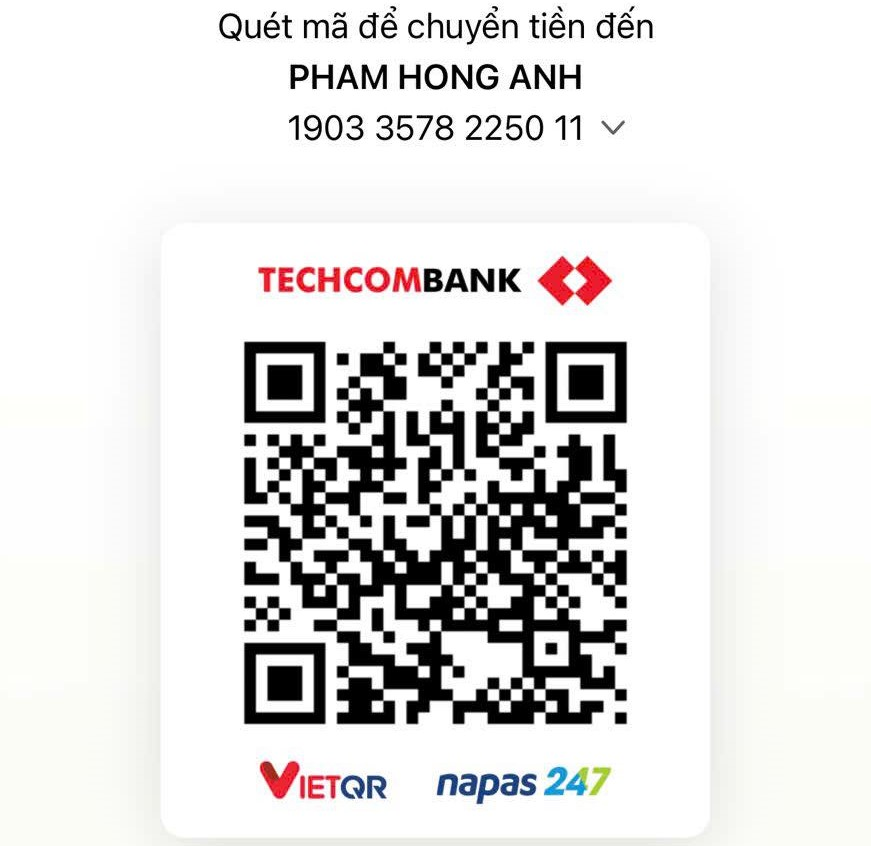
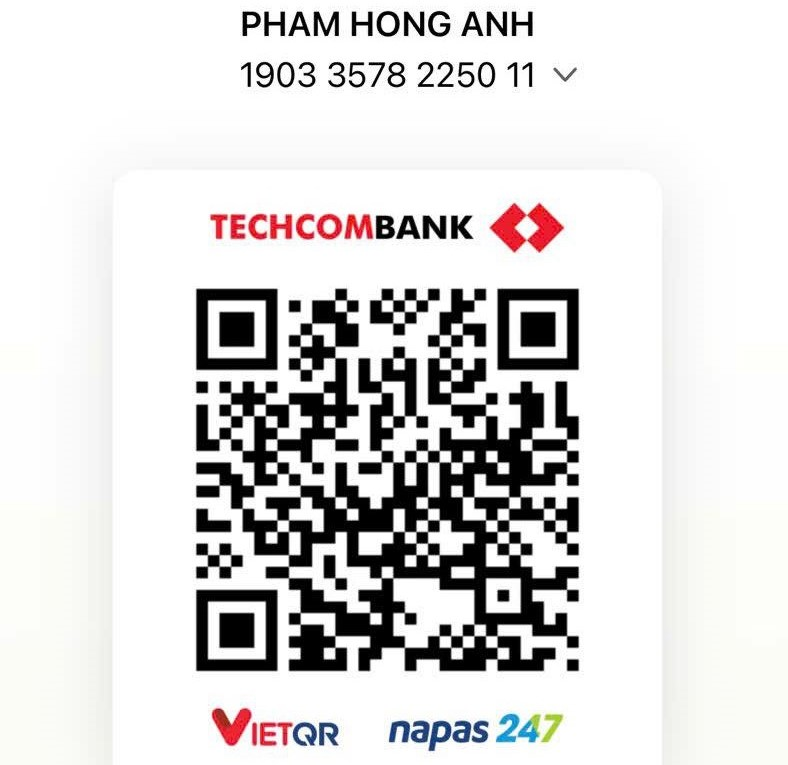
up wishes

Changed region(s): [[0.2437, 0.2706, 0.7614, 1.0], [0.2437, 0.0, 0.7614, 0.1804]]

diff --git a/index.html b/index.html
@@ -102,7 +102,7 @@
                 <h3>We’re Getting Married!</h3>
                 <h2><span>Quang Anh </span> &amp; <span>Hồng Anh</span></h2>
                 <div class="text-date">
-                    <p>SAVE THE DATE<span>19-04-2025</span></p>
+                    <p>SAVE THE DATE<span>12 & 19-04-2025</span></p>
                 </div>
             </div>
 
@@ -276,50 +276,6 @@
                     </div>
                     <div class="col-lg-6 col-md-12">
                             <div class="event-stack wow fadeIn">
-                                <h3 class="text-center">LỄ THÀNH HÔN</h3>
-                                <div class="row">
-                                	<div class="col-12 col-sm-12 col-md-5">
-                                		<div class="image-wrap">
-	                                    	<img class="event-image" src="./common/imgs/event/evenTH.jpg" alt="LỄ THÀNH HÔN">
-                                            	                                	</div>
-                                	</div>
-                                	<div class="col-12 col-sm-12 col-md-7">
-	                                	 <div class="event-title text-center-sm">
-		                                    <ul>
-		                                        <li class="text-center"><i class="fa fa-calendar-check-o"></i>2025-04-19</li>
-		                                        <li class="text-center"><i class="fa fa-clock-o"></i> 11:00</li>
-		                                    </ul>
-		                                </div>
-	                                	<p class="text-center-sm">
-                                            <i class="fa fa-map-marker"></i>
-                                                                                            <span>Tầng 2 - Khách sạn Hải Yến</span>
-                                                                                            Số 400, Trần Phú, Cẩm Trung, Cẩm Phả, Quảng Ninh
-                                        </p>
-	                                	<a class="text-center-sm"  href="https://maps.app.goo.gl/9ULMnGDuwjvFZrUM8" target="_blank" >Xem bản đồ  <i class="fa fa-caret-right"></i></a>
-	                                	<div class="calendar-button">
-		                                    <div class="atcb">
-											{
-											  "name":"LỄ THÀNH HÔN (Đám cưới Quang Anh  và Hồng Anh)",
-											  "description":"Cảm ơn bạn đã dành thời gian tham dự đám cưới của chúng tôi!. Thông tin chi tiết xem tại website:<br>[url]https://thanhxuan0604.iwedding.info[/url]",
-											  "startDate":"2025-04-19",
-											  "endDate":"2025-04-19",
-											  "startTime":"11:00",
-											  "endTime":"11:00",
-											  "location":"Số 400, Trần Phú, Cẩm Trung, Cẩm Phả, Quảng Ninh",
-											  "options":["Apple","Google","iCal","Microsoft365","MicrosoftTeams","Outlook.com","Yahoo"],
-											  "timeZone":"Asia/Ho_Chi_Minh",
-											  "iCalFileName":"Reminder-Event",
-											  "listStyle":"modal",
-											  "label":"Thêm vào lịch",
-											  "trigger":"click"
-											}
-											</div>
-										</div>
-                                	</div>
-                                	
-                                </div>
-                            </div>
-                            <div class="event-stack wow fadeIn">
                                 <h3 class="text-center">LỄ VU QUY</h3>
                                 <div class="row">
                                 	<div class="col-12 col-sm-12 col-md-5">
@@ -363,6 +319,50 @@
                                 	
                                 </div>
                             </div>
+                            <div class="event-stack wow fadeIn">
+                                <h3 class="text-center">LỄ THÀNH HÔN</h3>
+                                <div class="row">
+                                	<div class="col-12 col-sm-12 col-md-5">
+                                		<div class="image-wrap">
+	                                    	<img class="event-image" src="./common/imgs/event/evenTH.jpg" alt="LỄ THÀNH HÔN">
+                                            	                                	</div>
+                                	</div>
+                                	<div class="col-12 col-sm-12 col-md-7">
+	                                	 <div class="event-title text-center-sm">
+		                                    <ul>
+		                                        <li class="text-center"><i class="fa fa-calendar-check-o"></i>2025-04-19</li>
+		                                        <li class="text-center"><i class="fa fa-clock-o"></i> 11:00</li>
+		                                    </ul>
+		                                </div>
+	                                	<p class="text-center-sm">
+                                            <i class="fa fa-map-marker"></i>
+                                                                                            <span>Tầng 2 - Khách sạn Hải Yến</span>
+                                                                                            Số 400, Trần Phú, Cẩm Trung, Cẩm Phả, Quảng Ninh
+                                        </p>
+	                                	<a class="text-center-sm"  href="https://maps.app.goo.gl/9ULMnGDuwjvFZrUM8" target="_blank" >Xem bản đồ  <i class="fa fa-caret-right"></i></a>
+	                                	<div class="calendar-button">
+		                                    <div class="atcb">
+											{
+											  "name":"LỄ THÀNH HÔN (Đám cưới Quang Anh  và Hồng Anh)",
+											  "description":"Cảm ơn bạn đã dành thời gian tham dự đám cưới của chúng tôi!. Thông tin chi tiết xem tại website:<br>[url]https://thanhxuan0604.iwedding.info[/url]",
+											  "startDate":"2025-04-19",
+											  "endDate":"2025-04-19",
+											  "startTime":"11:00",
+											  "endTime":"11:00",
+											  "location":"Số 400, Trần Phú, Cẩm Trung, Cẩm Phả, Quảng Ninh",
+											  "options":["Apple","Google","iCal","Microsoft365","MicrosoftTeams","Outlook.com","Yahoo"],
+											  "timeZone":"Asia/Ho_Chi_Minh",
+											  "iCalFileName":"Reminder-Event",
+											  "listStyle":"modal",
+											  "label":"Thêm vào lịch",
+											  "trigger":"click"
+											}
+											</div>
+										</div>
+                                	</div>
+                                	
+                                </div>
+                            </div>
                         </div>
                 </div>
             </div>
@@ -387,7 +387,7 @@
                         <div class="quote-titles wow fadeInDown">
                             <h2>Love Quote</h2>
                         </div>
-                        <p>“ Samsa was a travelling salesman and above it there hung a picture that he had recently cut out of an illustrated magazine and housed in a nice, gilded frame. It showed a lady fitted out with and fur boa who sat upright ”</p>
+                        <p>“ Tình yêu không phải là một điểm đến, mà là một hành trình dài nơi hai con người học cách yêu thương, bao dung và cùng nhau trưởng thành. Khi bước vào hôn nhân, ta không chỉ cưới một người bạn đời, mà còn cưới cả những giấc mơ, những niềm vui và cả những thử thách của họ. Một cuộc hôn nhân bền vững không phải là sự tìm kiếm một người hoàn hảo, mà là học cách yêu một người dù họ không hoàn hảo. ”</p>
                     </div>
                 </div>
             </div>
@@ -597,15 +597,12 @@
                                 <h4 class="widget-title cursive">Cảm ơn bạn rất nhiều vì đã gửi những lời chúc mừng tốt đẹp nhất đến đám cưới của chúng tôi!</h4>
                                 <form id="wish-form" class="form validate-rsvp-form row contact-validation-active" method="post">
                                     <div class="col col-sm-12" style="margin-bottom:20px;">
-                                        <input type="text" name="name" class="form-control mb-0" style="margin-bottom:4px;" placeholder="Nhập họ tên*">
-                                    </div>
-                                    <div class="col col-sm-12">
-                                        <input type="email" name="email" class="form-control" placeholder="Nhập email">
+                                        <input type="text" name="name" id="name" class="form-control mb-0" style="margin-bottom:4px;" placeholder="Nhập họ tên*">
                                     </div>
                                     <div class="col col-sm-12" style="margin-bottom:20px;">
                                         <div class="textarea-emoji-picker">
                                             <div class="vitualTextarea">
-                                                <textarea id="content" class="form-control" name="content" style="margin-bottom:4px;" placeholder="Nhập lời chúc của bạn*"></textarea>
+                                                <textarea id="content" class="form-control" id="content" name="content" style="margin-bottom:4px;" placeholder="Nhập lời chúc của bạn*"></textarea>
                                                 <div class="textAreaIcons">
                                                     <span class="show-autocomplete tooltip-custom" data-toggle="tooltip" data-placement="top" title="Lời chúc gợi ý">
                                                         <svg xmlns="http://www.w3.org/2000/svg" width="20" height="20" fill="currentColor" class="bi bi-lightbulb" viewBox="0 0 16 16">
@@ -617,12 +614,12 @@
                                                           <path fill-rule="evenodd" d="M2.23 4.35A6 6 0 0 0 2 6c0 1.691.7 3.22 1.826 4.31.203.196.359.4.453.619l.762 1.769A.5.5 0 0 0 5.5 13a.5.5 0 0 0 0 1 .5.5 0 0 0 0 1l.224.447a1 1 0 0 0 .894.553h2.764a1 1 0 0 0 .894-.553L10.5 15a.5.5 0 0 0 0-1 .5.5 0 0 0 0-1 .5.5 0 0 0 .288-.091L9.878 12H5.83l-.632-1.467a3 3 0 0 0-.676-.941 4.98 4.98 0 0 1-1.455-4.405zm1.588-2.653.708.707a5 5 0 0 1 7.07 7.07l.707.707a6 6 0 0 0-8.484-8.484zm-2.172-.051a.5.5 0 0 1 .708 0l12 12a.5.5 0 0 1-.708.708l-12-12a.5.5 0 0 1 0-.708"/>
                                                         </svg>
                                                     </span>
-                                                    <span class="emoji-picker-button tooltip-custom" data-toggle="tooltip" data-placement="top" title="Chèn biểu tượng">
+                                                    <!-- <span class="emoji-picker-button tooltip-custom" data-toggle="tooltip" data-placement="top" title="Chèn biểu tượng">
                                                         <svg xmlns="http://www.w3.org/2000/svg" width="20" height="20" fill="currentColor" class="bi bi-emoji-smile" viewBox="0 0 16 16">
                                                           <path d="M8 15A7 7 0 1 1 8 1a7 7 0 0 1 0 14m0 1A8 8 0 1 0 8 0a8 8 0 0 0 0 16"/>
                                                           <path d="M4.285 9.567a.5.5 0 0 1 .683.183A3.5 3.5 0 0 0 8 11.5a3.5 3.5 0 0 0 3.032-1.75.5.5 0 1 1 .866.5A4.5 4.5 0 0 1 8 12.5a4.5 4.5 0 0 1-3.898-2.25.5.5 0 0 1 .183-.683M7 6.5C7 7.328 6.552 8 6 8s-1-.672-1-1.5S5.448 5 6 5s1 .672 1 1.5m4 0c0 .828-.448 1.5-1 1.5s-1-.672-1-1.5S9.448 5 10 5s1 .672 1 1.5"/>
                                                         </svg>
-                                                    </span>
+                                                    </span> -->
                                                     <div class="wishes-autocomplete-content" style="display: none;">
                                                         <input type="text" id="searchWishSuggestions" onkeyup="searchWishSuggestionsFunction()" placeholder="Tìm kiếm...">
                                                         <ul id="wishSuggestions">
@@ -664,30 +661,95 @@
                                             </div>
                                         </div>
                                     </div>
-                                    <!-- <button type="submit" class="btn btn-primary">Gửi lời chúc</button> -->
-                                    <button class="btn btn-primary">Gửi lời chúc</button>
-                                    <div class="clearfix error-handling-messages">
+                                    <button class="btn btn-primary" type="submit">Gửi lời chúc</button>
+                                    <!-- <div class="clearfix error-handling-messages">
                                         <div id="success">Thank you</div>
                                         <div id="error"> Error occurred while sending email. Please try again later.
                                         </div>
-                                    </div>
+                                    </div> -->
                                 </form>
+                                
+                                <script>
+                                    const apiURL = "http://localhost:3000/wishes"; // API backend mới
+                                
+                                    // 📌 Lấy danh sách lời chúc từ API
+                                    async function fetchWishes() {
+                                        try {
+                                            const response = await fetch(apiURL);
+                                            if (!response.ok) throw new Error("Lỗi khi lấy danh sách lời chúc");
+                                            
+                                            const data = await response.json();
+                                            const wishesList = document.getElementById('wishes-list');
+                                            wishesList.innerHTML = ""; // Xóa danh sách cũ
+                                            data.forEach(wish => {
+                                                const wishDiv = document.createElement("div");
+                                        
+                                                wishDiv.innerHTML = `
+                                                        <div class="wish-box-item">
+                                                            <p><strong>${wish.name}</strong> <img class="heart-icon" src="./common/imgs/event/heart.png"></p>
+                                                            <p>${wish.content}</p>
+                                                        </div>
+                                                `;
+                                                wishesList.appendChild(wishDiv);
+                                            });
+                                        } catch (error) {
+                                            console.error("Lỗi:", error);
+                                        }
+                                    }
+                                
+                                    // 📌 Gửi lời chúc lên API
+                                    document.getElementById("wish-form").onsubmit = async function (e) {
+                                        e.preventDefault();
+                                        const name = document.getElementById("name").value.trim();
+                                        // const email = document.getElementById("email").value.trim();
+                                        const content = document.getElementById("content").value.trim();
+                                
+                                        if (!name || !content) {
+                                            alert("Vui lòng nhập đầy đủ họ tên và lời chúc!");
+                                            return;
+                                        }
+                                
+                                        try {
+                                            const response = await fetch(apiURL, {
+                                                method: "POST",
+                                                headers: { "Content-Type": "application/json" },
+                                                body: JSON.stringify({ name, content }),
+                                            });
+                                            const result = await response.json();
+                                            if (response.ok) {
+                                                alert("Gửi lời chúc thành công!");
+                                                document.getElementById("wish-form").reset(); // Reset form
+                                                fetchWishes(); // Cập nhật danh sách
+                                            } else {
+                                                throw new Error(result.message || "Lỗi khi gửi lời chúc");
+                                            }
+                                        } catch (error) {
+                                            console.error("Lỗi:", error);
+                                            alert("Có lỗi xảy ra. Vui lòng thử lại!");
+                                        }
+                                    };
+                                
+                                    // 🔄 Load danh sách lời chúc khi trang tải
+                                    fetchWishes();
+                                </script>
+
                             </div>
                         </div>
                     </div>
                     <div class="col-md-6 ">
                         <div class="wish-box ft-about-content">
-                                                        <div class="wish-box-item ">
-                                <strong>Website Maker</strong>
-                                <p>&quot;Một cuộc hôn nhân thành công đòi hỏi phải yêu nhiều lần, và luôn ở cùng một người&quot; - Chúc cho hai bạn sẽ có được một cuộc hôn nhân viên mãn, trăm năm hạnh phúc!</p>
+                            <div class="wish-box-item ">
+                                <strong>Website Maker</strong><img class="heart-icon" src="./common/imgs/event/star.png">
+                                <p>Hạnh phúc không nằm ở những điều lớn lao mà trong từng khoảnh khắc giản dị mỗi ngày – một bữa cơm ấm áp, một ánh mắt quan tâm hay một cái ôm dịu dàng. Chúc hai bạn có một cuộc sống hôn nhân viên mãn, trọn vẹn, trăm năm hạnh phúc! </p>
                                 <script type="text/javascript">
                                     dataWishes.push({
-                                        name: `Website Maker`,
-                                        content: `&quot;Một cuộc hôn nhân thành công đòi hỏi phải yêu nhiều lần, và luôn ở cùng một người&quot; - Chúc cho hai bạn sẽ có được một cuộc hôn nhân viên mãn, trăm năm hạnh phúc!`
+                                        name: `Website Maker <img class="heart-icon" src="./common/imgs/event/star.png">`,
+                                        content: `Hạnh phúc không nằm ở những điều lớn lao mà trong từng khoảnh khắc giản dị mỗi ngày – một bữa cơm ấm áp, một ánh mắt quan tâm hay một cái ôm dịu dàng. Chúc hai bạn có một cuộc sống hôn nhân viên mãn, trọn vẹn, trăm năm hạnh phúc! `
                                     });
                                 </script>
-                                                            </div>
-                                                    </div>
+                            </div>
+                            <div id="wishes-list"></div>
+                        </div>
                     </div>
                 </div>
             </div>
@@ -742,7 +804,7 @@
                                                             <div class="donate-card">
                         <h3>Mừng cưới đến cô dâu</h3>
                                             	<img class="qr-code-image" src="./common/imgs/qr/qrCD.jpg">
-                    	                        <p>Ngân hàng: <strong>VIETCOMBANK</strong></p>
+                    	                        <p>Ngân hàng: <strong>TECHCOMBANK</strong></p>
                         <p>Tên tài khoản: <strong>PHAM HONG ANH</strong></p>
                         <p>Số tài khoản: <strong>1903 3578 2250 11</strong></p>
                         <p>Chi nhánh: <strong></strong></p>

diff --git a/templates/template18/css/style.css b/templates/template18/css/style.css
@@ -5586,8 +5586,18 @@ transform: translate(-50%, -50%);
 .wish-box{overflow-y: auto;height: 557px;background-color: #fff;border: 5px solid #f23b43;color: #333;padding:0;}
 .wish-box::-webkit-scrollbar {width: 5px;background:#ccc;}
 .wish-box::-webkit-scrollbar-thumb {background-color: #999;-webkit-border-radius: 0;-moz-border-radius: 0;-o-border-radius: 0;-ms-border-radius: 0;border-radius: 0;}
-.wish-box .wish-box-item{padding: 12px;}
-.wish-box .wish-box-item p{color: #333;margin:.5rem 0;}
+.wish-box .wish-box-item{
+    padding: 12px;
+    border-radius: 0 0 0 15px;
+    box-shadow: 2px 4px 10px rgba(0, 0, 0, 0.1);
+    margin-bottom: 10px;
+    margin-left: 5px;
+
+}
+.wish-box .wish-box-item p{
+    color: #333;margin:.5rem 0;
+    font-size: 17px;
+}
 .wish-box .wish-box-item.bg{background-color: #fff0f1;}
 
 .donate-modal {
@@ -6067,6 +6077,12 @@ textarea#content{border: none;}
 	font-size: 15px!important;
 	color: black!important;
 	display: block!important;
+}
+.heart-icon {
+    width: 15px;  /* Điều chỉnh kích thước */
+    height: 16px;
+    margin-left: 5px;
+    vertical-align: middle; /* Căn chỉnh với chữ */
 }
 #wish-form .wishes-autocomplete-content ul li a:hover{background-color: #eee!important;}
 #wish-form .tooltip-custom {
